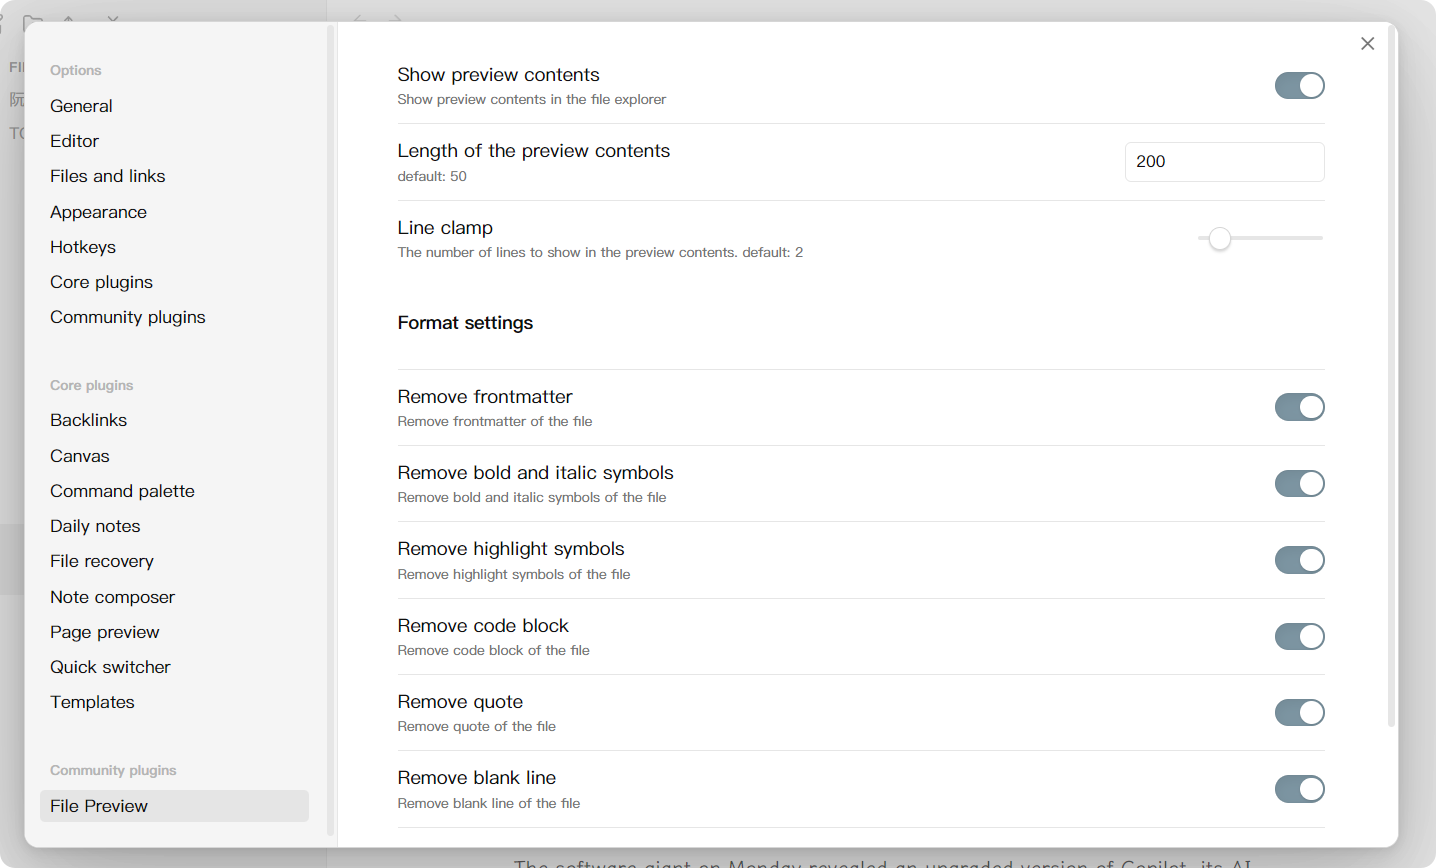
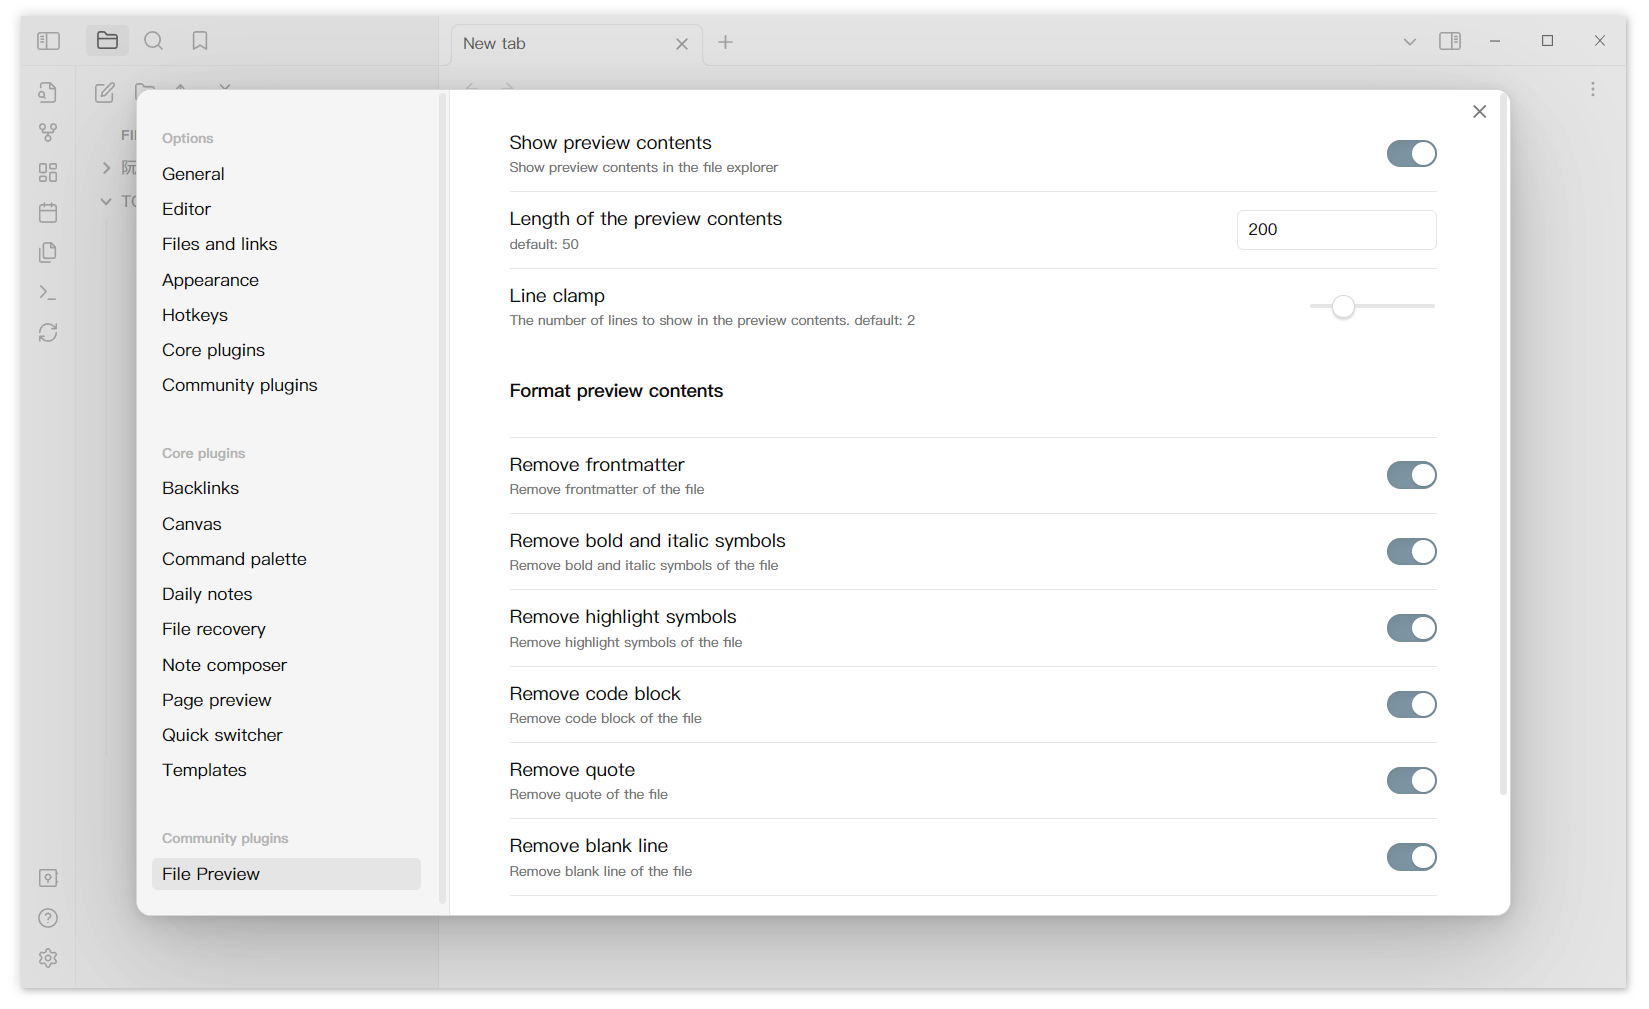
remove 'setting' in settingtab

diff --git a/src/main.ts b/src/main.ts
@@ -258,7 +258,7 @@ class FilePreviewSettingTab extends PluginSettingTab {
         })
       )
 
-    containerEl.createEl('h2', { text: 'Format settings' });
+    containerEl.createEl('h2', { text: 'Format preview contents' });
     
     new Setting(containerEl)
       .setName("Remove frontmatter")
